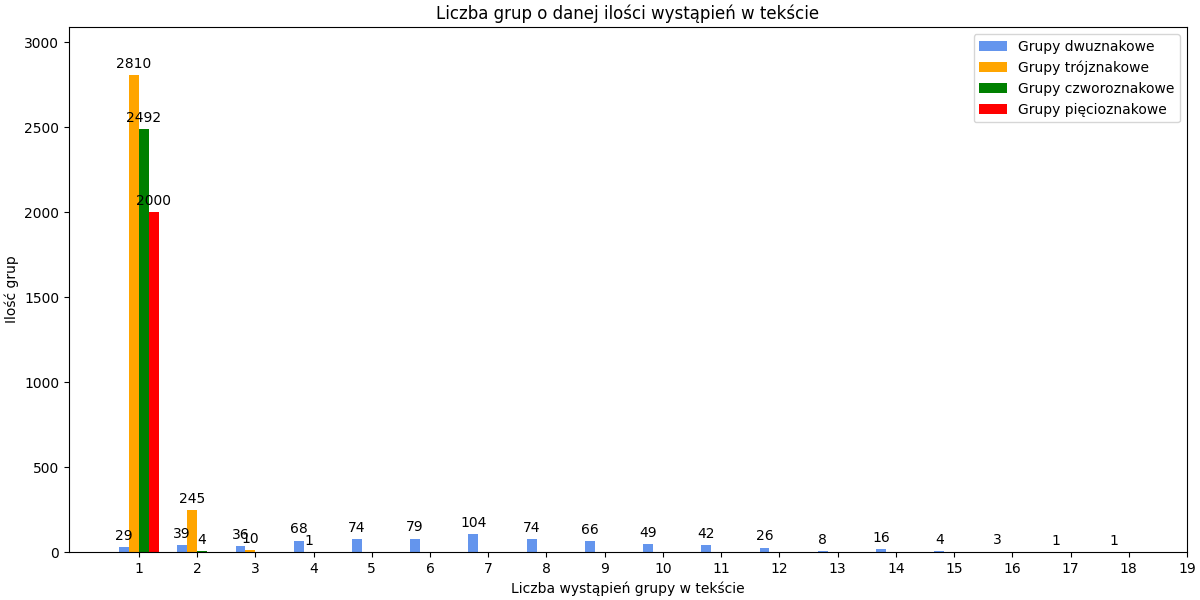
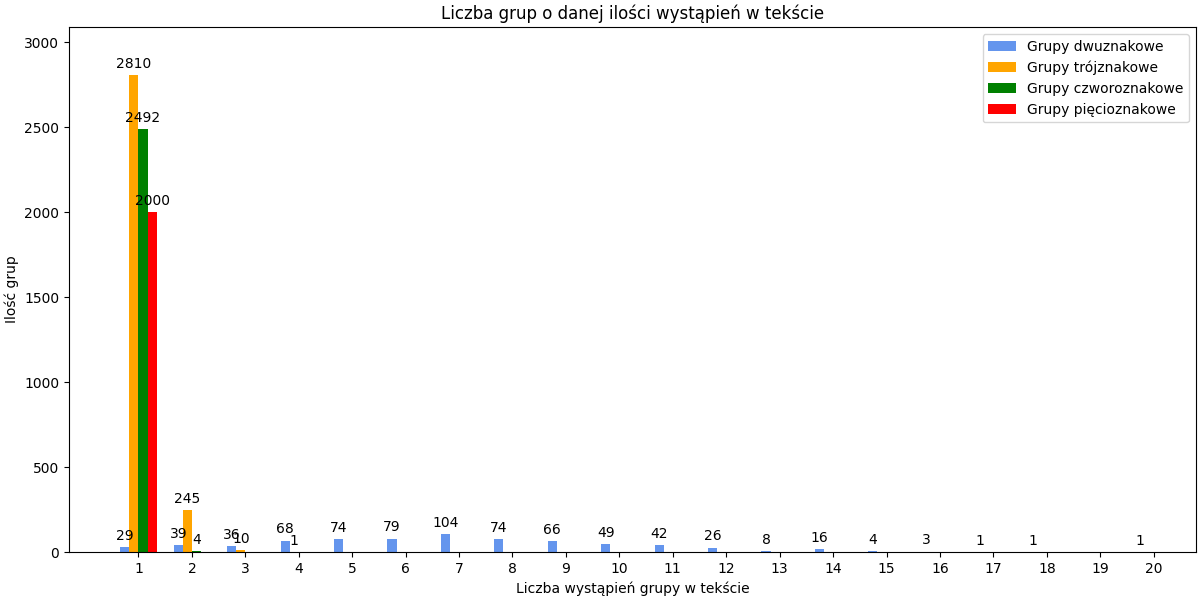
Letter distribution

diff --git a/booyer_moore/final/main.py b/booyer_moore/final/main.py
@@ -1,5 +1,6 @@
 from collections import Counter
 import os
+import re
 
 from matplotlib import pyplot as plt
 from booyer_moore.text_generator import generate_text, NormalDistribution
@@ -12,12 +13,12 @@ CURRENT_DIR = os.path.dirname(os.path.realpath(__file__))
 TEXT_FILE_PATH = os.path.join(CURRENT_DIR, 'text.txt')
 GROUP_OVERLAPPING = False
 GROUP_LIST = {2: ('dwuznakowe', 'cornflowerblue'), 3: ('trójznakowe', 'orange'), 4: ('czworoznakowe', 'green'), 5: ('pięcioznakowe', 'red')}
-SINGLE_PLOT = False
 IGNORE_TEXTFILE = False
 
 if __name__ == "__main__":
     if IGNORE_TEXTFILE:
         text = generate_text(DISTRIBUTION, LENGTH)
+        print(text)
     else:
         if not os.path.isfile(TEXT_FILE_PATH):
             text = generate_text(DISTRIBUTION, LENGTH)
@@ -27,10 +28,30 @@ if __name__ == "__main__":
             with open(TEXT_FILE_PATH, 'r') as file:
                 text = file.read()
 
-
     c = Counter(text)
-    plt.bar(*zip(*sorted(c.items(), key=lambda d: d[1])), width=.5, color='g') # Sorted
-    plt.savefig(os.path.join(CURRENT_DIR, 'letters.png'))
+    global_distances = []
+    for letter in c.keys():
+        match_indexes = [m.start(0) for m in re.finditer(letter, text)]
+        distances = []
+        for i in range(0, len(match_indexes)-1):
+            distances.append(match_indexes[i+1] - match_indexes[i])
+
+        global_distances.extend(distances)
+        distances = sorted(Counter(distances).items())
+        plt.bar(*zip(*distances), width=.5, color='g') # Sorted
+        plt.title(f'Częstość występowania znaku `{letter}`')
+        plt.xlabel('Odległość występowania')
+        plt.ylabel('Ilość powtórzeń')
+
+        plt.savefig(os.path.join(CURRENT_DIR, f'letter_{letter}.png'))
+        plt.clf()
+
+    global_distances = sorted(Counter(global_distances).items())
+    plt.bar(*zip(*global_distances), width=.5, color='g') # Sorted
+    plt.title(f'Częstość występowania znaków')
+    plt.xlabel('Odległość występowania')
+    plt.ylabel('Ilość powtórzeń')
+    plt.savefig(os.path.join(CURRENT_DIR, f'letters_combined.png'))
     plt.clf()
 
     def plot_groups(groups, fname):
@@ -83,43 +104,9 @@ if __name__ == "__main__":
             ax.legend(loc='upper right', ncols=1)
             ax.set_xticks(counts + (width*(len(groups)/2-0.5)), counts)
 
-            # if SINGLE_PLOT:
-            #     fig.savefig(os.path.join(CURRENT_DIR, f'group_{group_size}_chart.png'))
-            #     ax.clear()
-
         # ax.set_ylim(0, 250)
         fig.savefig(os.path.join(CURRENT_DIR, fname))
 
-    # plot_groups(GROUP_LIST, 'group_chart.png')
+    plot_groups(GROUP_LIST, 'group_chart.png')
     for k,v in GROUP_LIST.items():
         plot_groups({k: v}, f'group_{k}_chart.png')
-
-
-    # plt.figure(figsize=(12,6))
-    # offset = 0
-    # for group_size, group_color, group_suffix in [(2, 'g', 'dwuznakowa'),(3, 'b', 'trójznakowa'),(4, 'orange', 'czworoznakowa'),(5, 'yellow', 'pięcioznakowa')]:
-    #     offset +=0.3
-    #     h: np.ndarray = np.fromiter(bytes(text, 'ascii'), dtype=int)
-
-    #     groups = Counter(group(text, group_size, overlapping=GROUP_OVERLAPPING))
-    #     group_labels, group_values = zip(*sorted(groups.items(), key=lambda d: d[1]))
-
-    #     # plt.figure(figsize=(12,6))
-    #     # plt.bar(group_labels, group_values, width=.5, color='g') # Sorted
-
-    #     # plt.xticks(group_labels, group_labels, rotation='vertical')
-
-    #     # plt.savefig(os.path.join(CURRENT_DIR, f'group_{group_size}.png'))
-
-    #     groups_grouped = Counter(group_values)
-    #     group_labels, group_values = zip(*sorted(groups_grouped.items(), key=lambda d: d[1]))
-
-    #     bar = plt.bar(group_labels, group_values, width=0.5, color=group_color) # Sorted
-    #     bar.set_label(f'Grupa {group_suffix}')
-
-    # plt.ylabel('Ilość grup')
-    # plt.xlabel('Liczba wystąpień grupy w tekście')
-    # # plt.xticks(group_labels, group_labels)#, rotation='vertical')
-    # plt.legend()
-
-    # plt.savefig(os.path.join(CURRENT_DIR, f'group_chart.png'))

diff --git a/booyer_moore/text_visualization.py b/booyer_moore/text_visualization.py
@@ -1,12 +1,7 @@
 #!/usr/bin/python3
 
 from collections import Counter
-from concurrent.futures import ThreadPoolExecutor
 import sys
-import string
-from typing import Iterator
-import numpy as np
-import scipy.stats as stats
 import matplotlib.pyplot as plt
 
 from utils import get_arg
@@ -14,17 +9,6 @@ from utils import get_arg
 if __name__ == "__main__":
     INPUT = get_arg("--input", "") or sys.stdin.read()
     OUTPUT = get_arg("--output", "foo.png")
-
-    h: np.ndarray = np.fromiter(bytes(INPUT, 'ascii'), dtype=int)
-    # h: np.ndarray = np.sort(np.fromiter(bytes(INPUT, 'ascii'), dtype=int))
-    # h: np.chararray = np.char.array(np.fromiter(INPUT, (np.unicode_,1)))
-    # print(h.mean())
-    # hstd = np.std(h)
-    # pdf = stats.norm.pdf(h, h.mean(), h.std())
-    # counts, bins = np.histogram(h)
-    # plt.stairs(counts, bins)
-    # pdf = plt.hist(h)
-    # plt.plot(h, pdf) # including h here is crucial
 
     c = Counter(INPUT)
     plt.bar(*zip(*sorted(c.items(), key=lambda d: d[1])), width=.5, color='g') # Sorted

diff --git a/booyer_moore/text_generator.py b/booyer_moore/text_generator.py
@@ -1,5 +1,6 @@
 #!/usr/bin/python3
 
+import math
 import random
 import string
 import sys
@@ -57,6 +58,18 @@ def offset_and_scale(arr: np.ndarray, target_sum):
 def generate_text(distribution: Distribution, length: int, character_set: str = string.ascii_lowercase + ' ', seed: int = None):
     if seed:
         np.random.seed(seed)
+
+    # sample = ''
+    # weights = distribution.random(length)
+    # offset = abs(np.min(weights))
+    # weights = weights + offset
+
+    # weights *= (len(character_set)-1)/weights.max()
+    # weights = np.rint(weights).astype(int)
+
+    # for i in weights:
+    #     sample += character_set[i]
+    # return sample
 
     sample = []
     weights = distribution.random(len(character_set))
